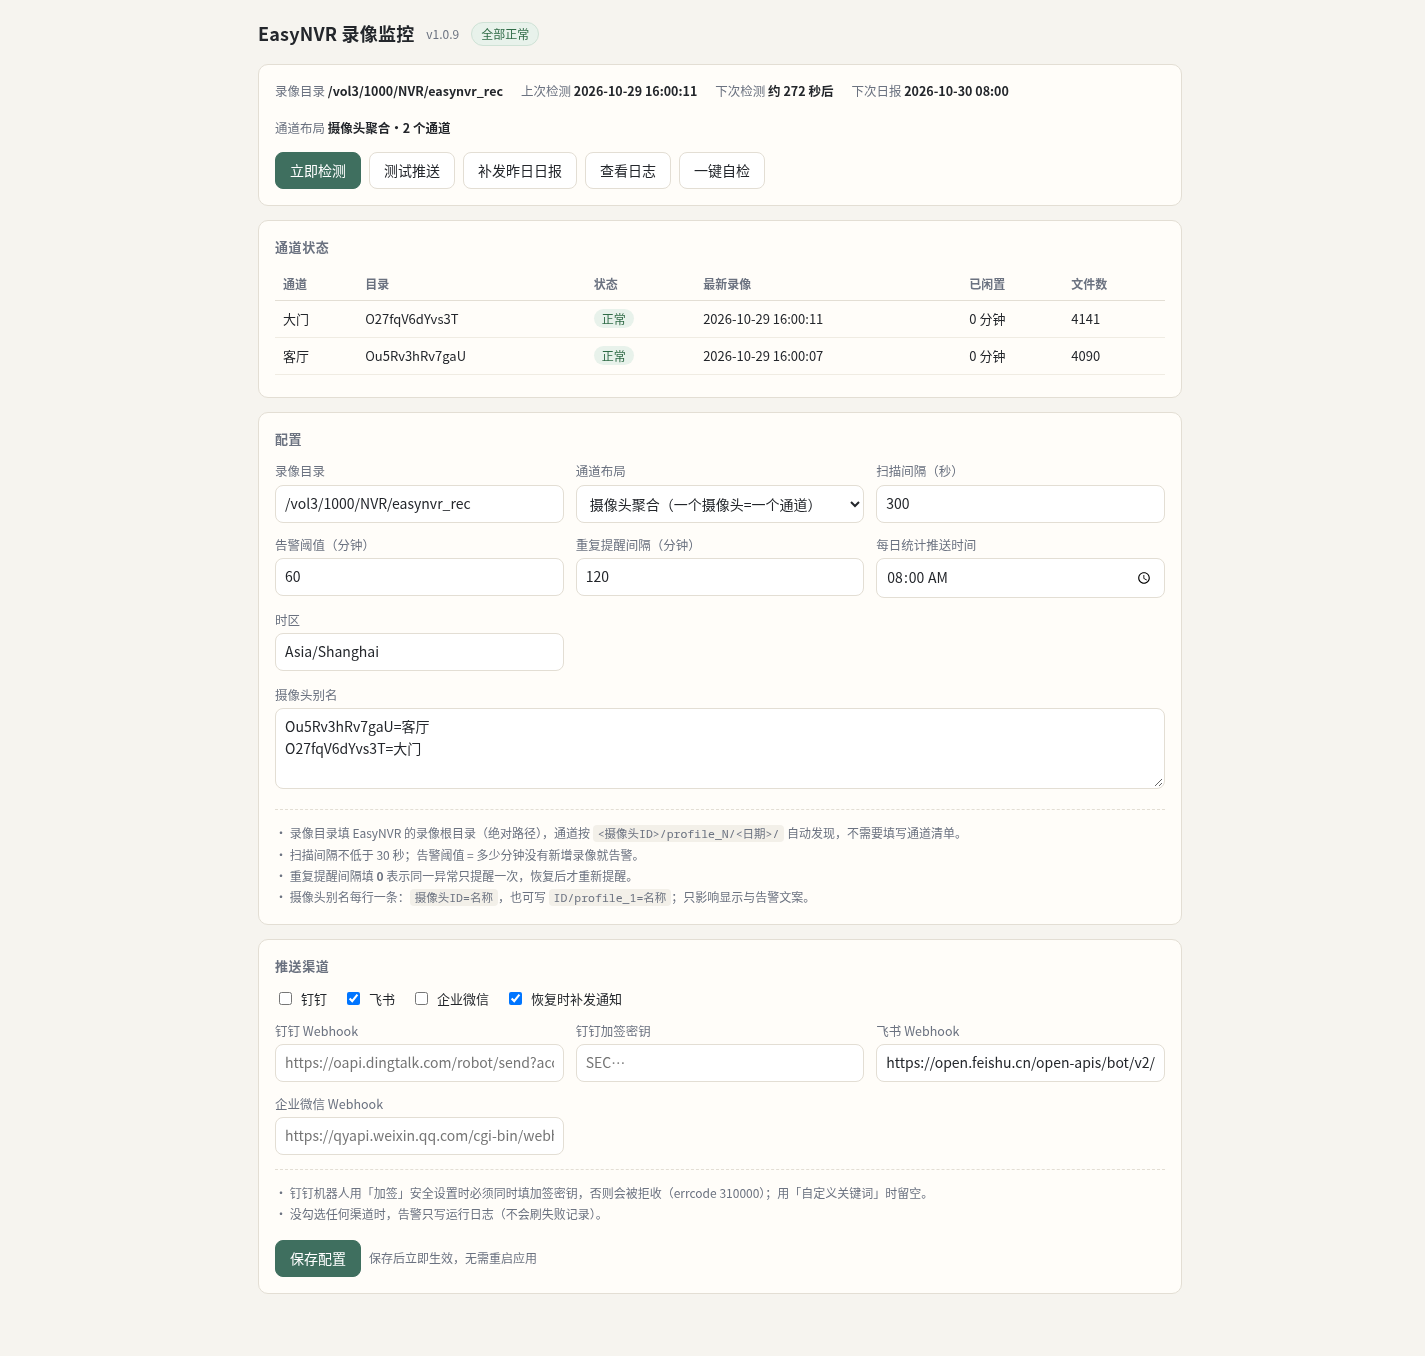
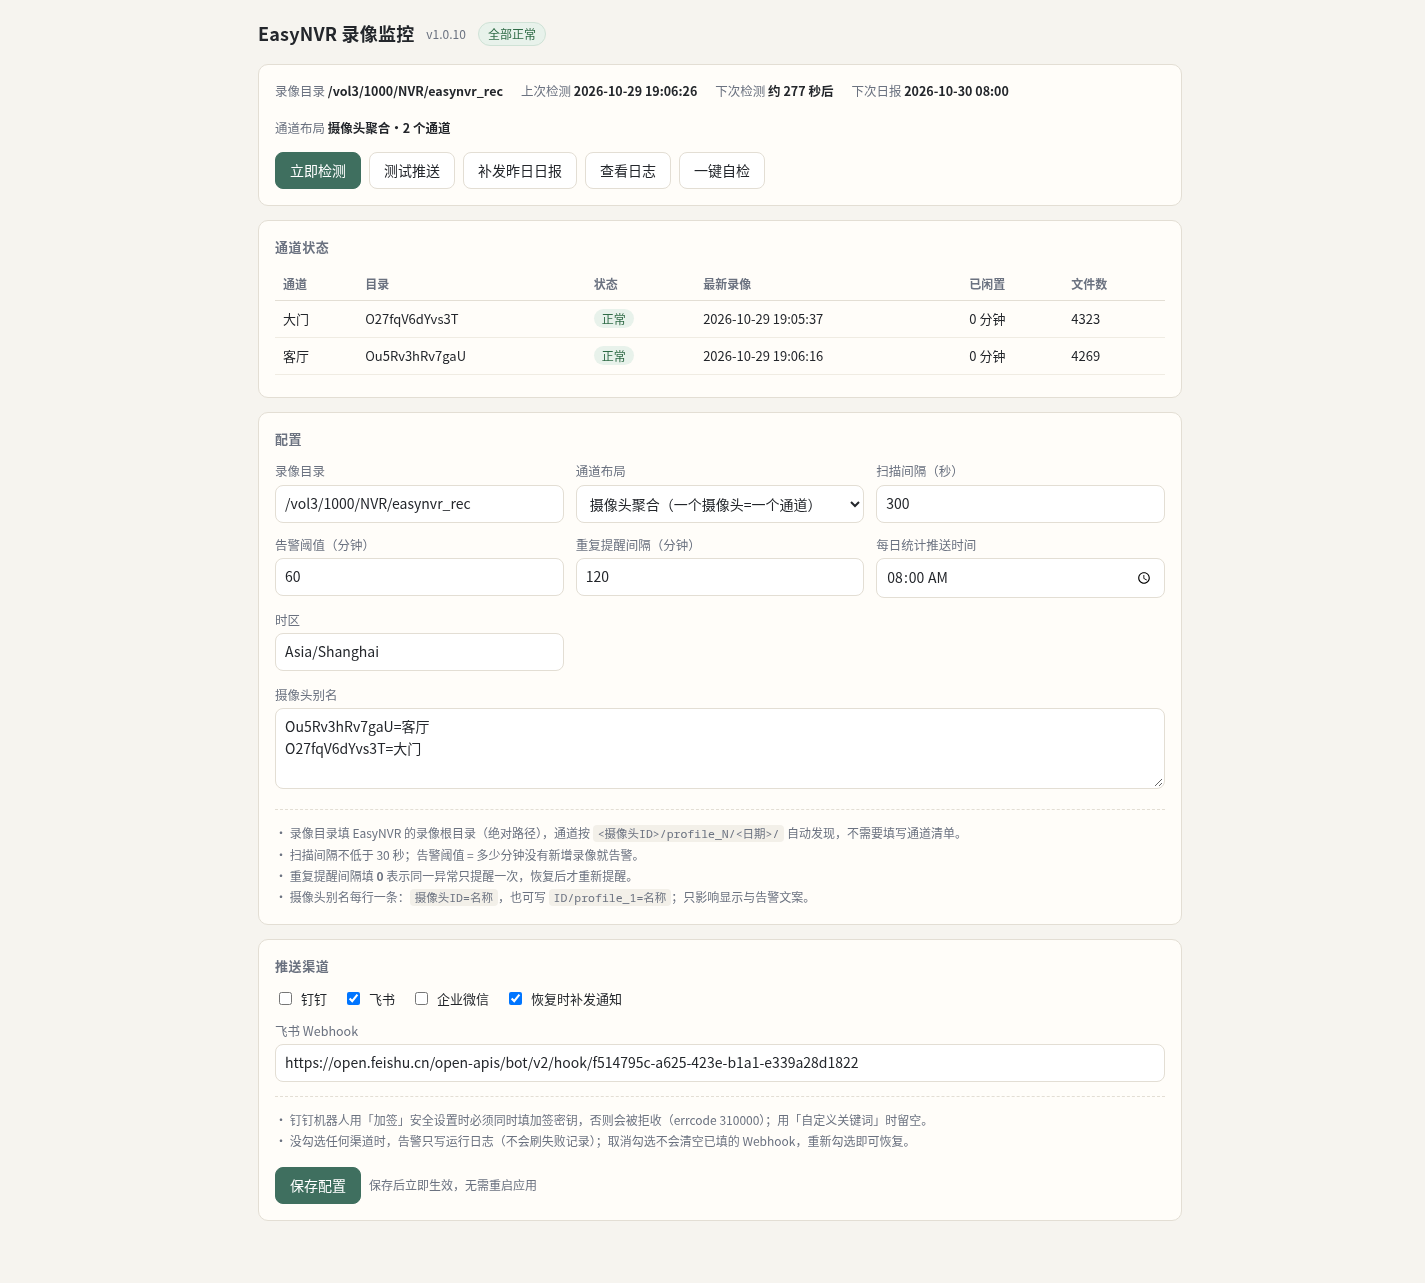
feat(ui): 推送渠道按需展开 v1.0.10 — 勾选渠道才显示对应 Webhook/密钥
- 4 个填写框加 data-ch，勾选「钉钉/飞书/企业微信」才显示对应框（钉钉另显示加签密钥）
- 都不勾时只显示一行提示；取消勾选不清空已填值，重新勾选即恢复
- syncPushFields() 在勾选事件与 fillConfig()（加载配置后）都会执行
- 实测：加载后只显示已启用的飞书；勾钉钉→webhook+secret 出现；取消→隐藏但值保留；全不勾→提示行出现
- 预览图重拍；selftest 79 项仍全过

diff --git a/erm/app/www/index.html b/erm/app/www/index.html
@@ -53,6 +53,7 @@
   input:focus{outline:2px solid var(--brand-soft);border-color:var(--brand)}
   .checks{display:flex;gap:16px;flex-wrap:wrap;margin-top:6px}
   .checks label{display:flex;align-items:center;gap:6px;margin:0;color:var(--ink);font-size:13px}
+  .push-field[hidden]{display:none}
   .hint{font-size:12px;color:var(--muted);margin-top:6px}
   .notes{font-size:12px;color:var(--muted);line-height:1.75;margin-top:14px;
          padding-top:12px;border-top:1px dashed var(--line)}
@@ -190,16 +191,29 @@
         <label><input type="checkbox" id="notify_recovery"> 恢复时补发通知</label>
       </div>
 
-      <div class="grid" style="margin-top:12px">
-        <div><label>钉钉 Webhook</label><input type="text" id="dingtalk_webhook" placeholder="https://oapi.dingtalk.com/robot/send?access_token=…"></div>
-        <div><label>钉钉加签密钥</label><input type="text" id="dingtalk_secret" placeholder="SEC…"></div>
-        <div><label>飞书 Webhook</label><input type="text" id="feishu_webhook" placeholder="https://open.feishu.cn/open-apis/bot/v2/hook/…"></div>
-        <div><label>企业微信 Webhook</label><input type="text" id="wechat_webhook" placeholder="https://qyapi.weixin.qq.com/cgi-bin/webhook/send?key=…"></div>
+      <div class="grid" style="margin-top:12px" id="pushFields">
+        <div class="push-field" data-ch="dingtalk">
+          <label>钉钉 Webhook</label>
+          <input type="text" id="dingtalk_webhook" placeholder="https://oapi.dingtalk.com/robot/send?access_token=…">
+        </div>
+        <div class="push-field" data-ch="dingtalk">
+          <label>钉钉加签密钥</label>
+          <input type="text" id="dingtalk_secret" placeholder="SEC…（用「自定义关键词」时留空）">
+        </div>
+        <div class="push-field" data-ch="feishu">
+          <label>飞书 Webhook</label>
+          <input type="text" id="feishu_webhook" placeholder="https://open.feishu.cn/open-apis/bot/v2/hook/…">
+        </div>
+        <div class="push-field" data-ch="wechat">
+          <label>企业微信 Webhook</label>
+          <input type="text" id="wechat_webhook" placeholder="https://qyapi.weixin.qq.com/cgi-bin/webhook/send?key=…">
+        </div>
       </div>
+      <div class="hint" id="pushEmpty">勾选上面的渠道后，这里才会出现对应的 Webhook 填写框（钉钉还会多一个「加签密钥」）。</div>
 
       <div class="notes">
         · 钉钉机器人用「加签」安全设置时必须同时填加签密钥，否则会被拒收（errcode 310000）；用「自定义关键词」时留空。<br>
-        · 没勾选任何渠道时，告警只写运行日志（不会刷失败记录）。
+        · 没勾选任何渠道时，告警只写运行日志（不会刷失败记录）；取消勾选不会清空已填的 Webhook，重新勾选即可恢复。
       </div>
 
       <div class="row" style="margin-top:16px">
@@ -281,6 +295,26 @@ function renderChannels(d){
   box.innerHTML = html + '</tbody></table>';
 }
 
+const PUSH_CH = ['dingtalk', 'feishu', 'wechat'];
+
+/* 勾了哪个渠道，才显示它的 Webhook（钉钉额外显示加签密钥）；都没勾就只显示提示 */
+function syncPushFields(){
+  let any = false;
+  for (const ch of PUSH_CH) {
+    const on = !!($('ch_' + ch) || {}).checked;
+    document.querySelectorAll('.push-field[data-ch="' + ch + '"]').forEach(el => {
+      el.hidden = !on;
+    });
+    if (on) any = true;
+  }
+  $('pushEmpty').style.display = any ? 'none' : 'block';
+}
+
+PUSH_CH.forEach(ch => {
+  const box = $('ch_' + ch);
+  if (box) box.addEventListener('change', syncPushFields);
+});
+
 function fillConfig(cfg){
   const set = (id, v) => { const el = $(id); if (el) el.value = v == null ? '' : v; };
   set('record_root', cfg.record_root);
@@ -301,6 +335,7 @@ function fillConfig(cfg){
   $('ch_feishu').checked = on.includes('feishu');
   $('ch_wechat').checked = on.includes('wechat');
   $('notify_recovery').checked = !!cfg.notify_recovery;
+  syncPushFields();
 }
 
 function render(d){

diff --git a/erm/app/server.py b/erm/app/server.py
@@ -30,7 +30,7 @@ from urllib.parse import parse_qs, urlparse
 
 APP_NAME = "erm"
 GATEWAY_PREFIX = "/app/" + APP_NAME
-VERSION = "1.0.9"
+VERSION = "1.0.10"
 
 SELF = os.path.abspath(__file__)
 APP_DEST = os.path.dirname(SELF)           # app/ 的内容直接铺到 target 根

diff --git a/CHANGELOG.md b/CHANGELOG.md
@@ -10,6 +10,17 @@
 - Release 附件：`EasyNVR-RecordAlert-<版本>.fpk`
 - 主题写正文首行 `## v<版本> · 主题`；仓库内构建产物固定 `dist/erm.fpk`
 
+## v1.0.10
+
+推送渠道**按需展开**（纯 UI）：
+
+- 只勾「钉钉」→ 只出现「钉钉 Webhook」+「钉钉加签密钥」；勾「飞书」→「飞书 Webhook」；
+  勾「企业微信」→「企业微信 Webhook」。都不勾时那一片区域只显示一行提示
+  「勾选上面的渠道后，这里才会出现对应的 Webhook 填写框」。
+- 取消勾选**不清空**已填内容（值仍随保存一起提交），重新勾选即可恢复显示。
+- 实现：4 个填写框各自带 `data-ch`，`syncPushFields()` 按 `ch_<渠道>` 的勾选状态切换 `hidden`，
+  勾选事件与「加载配置」后都会同步（`fillConfig()` 末尾调用）。
+
 ## v1.0.9
 
 配置区排版整理（纯 UI，不动逻辑）：
